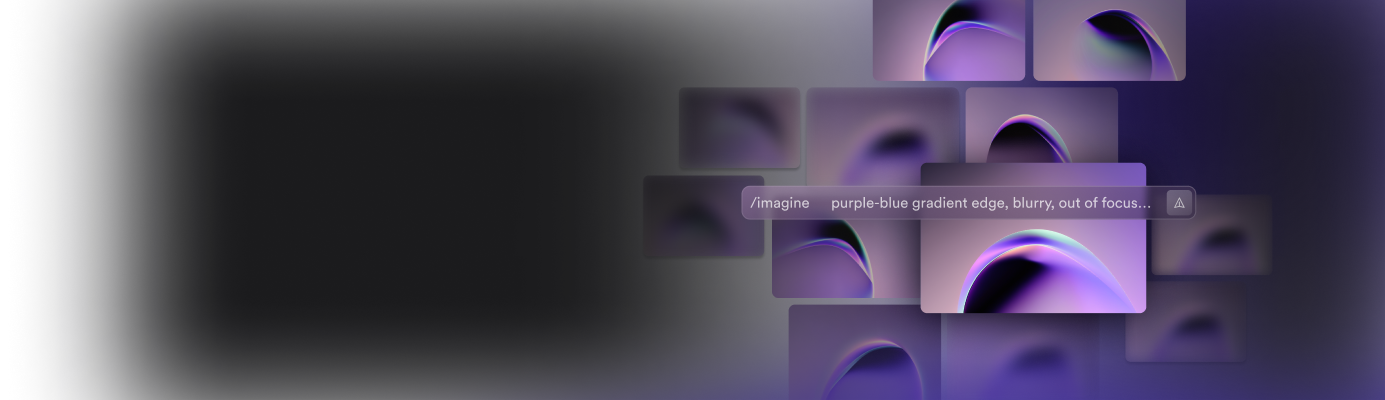
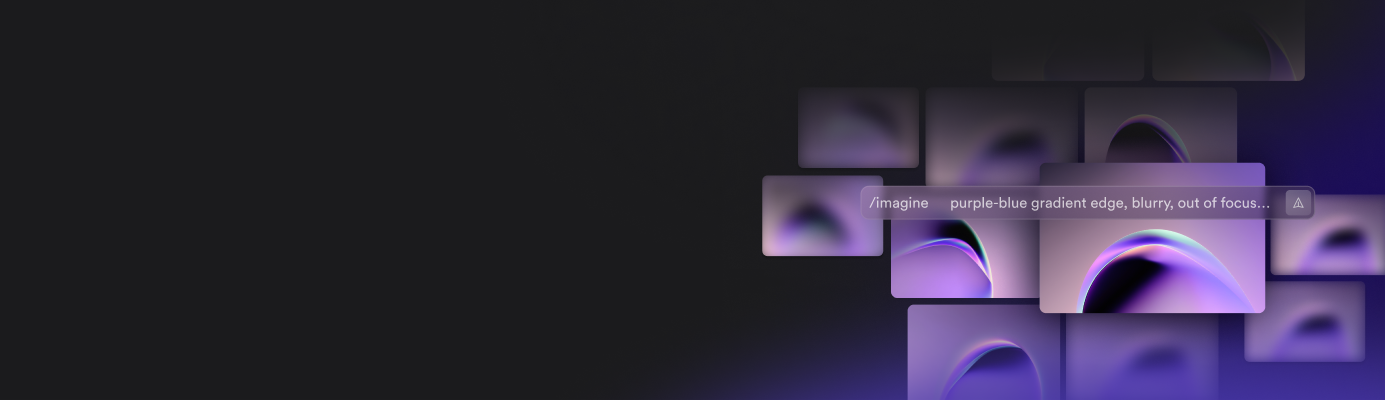
fix: lw7 images on blog post light mode

diff --git a/apps/www/components/LaunchWeek/7/BlogLinks.tsx b/apps/www/components/LaunchWeek/7/BlogLinks.tsx
@@ -75,12 +75,12 @@ const BlogLinks = () => {
               <a
                 className={`
                 flex flex-col flex-1 gap-3 items-start justify-center border rounded-xl h-full relative overflow-hidden
-                p-6 lg:p-10 text-2xl
+                p-6 lg:p-10 text-2xl bg-[#1C1C1C]
                 before:absolute before:w-full before:h-full before:top-52 before:right-0 before:bottom-0 before:left-0
                 before:border-[#1f3536] before:-z-10
               `}
               >
-                <div className="flex items-center text-lg flex-col-reverse lg:flex-row lg:justify-start gap-2 text-black dark:text-white">
+                <div className="relative z-10 flex items-center text-lg flex-col-reverse lg:flex-row lg:justify-start gap-2 text-black dark:text-white">
                   <div className="text-transparent bg-clip-text bg-gradient-to-r from-[#F4FFFA] to-[#B7B2C9] drop-shadow-lg">
                     {step.title}
                   </div>
@@ -92,13 +92,13 @@ const BlogLinks = () => {
                 /> */}
                 {step.thumb && (
                   <motion.div
-                    className="absolute opacity-90 inset-0 w-full h-full -z-10"
+                    className="absolute inset-0 w-full h-full z-0"
                     variants={hoverVariant}
                   >
                     <Image
                       src={step.thumb}
                       className={`
-                    absolute opacity-90
+                    absolute
                     w-full h-full -z-10 transition-all duration-300
                   `}
                       layout="fill"
@@ -158,10 +158,9 @@ const PlaySvg = () => (
 
 const defaultEase = [0.25, 0.25, 0, 1]
 const hoverVariant = {
-  default: { scale: 1, opacity: 0.9, ease: defaultEase, duration: 0.2 },
+  default: { scale: 1, ease: defaultEase, duration: 0.2 },
   hover: {
     scale: 1.05,
-    opacity: 1,
     transition: {
       duration: 0.4,
       ease: defaultEase,
